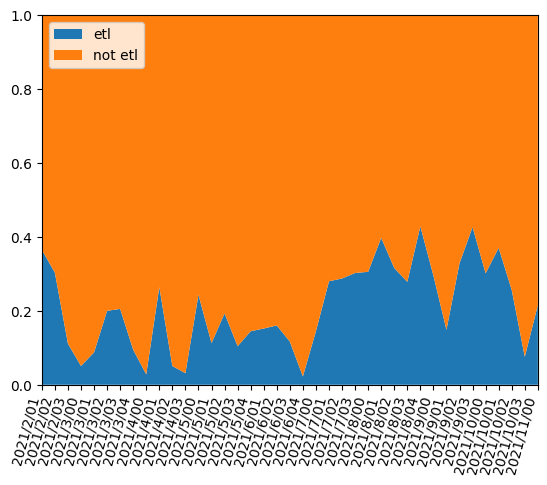
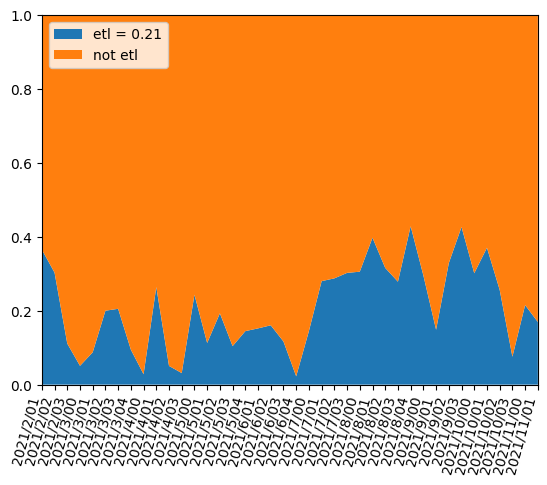
Billing

diff --git a/billing/plots.py b/billing/plots.py
@@ -3,6 +3,7 @@ import datetime
 import dateutil
 import matplotlib.pyplot as plt
 from matplotlib.font_manager import FontProperties
+from statistics import mean
 
 import sum_tables
 
@@ -137,12 +138,14 @@ def plot_table(figname, meetingize=False, zeynepize=False, indaraize=False,
     #x = range(len(y[0]))
 
     # pop off empty weeks at the end
+    #
     busy = []
     for i in range(len(x)):
         busy.append(0)
         for prj in y:
-            if prj[i] > 0:
-                busy[i] = 1
+            if (0 <= i < len(prj)):
+                if prj[i] > 0:
+                    busy[i] = 1
 
     weeks_to_pop = 0
     for i in range(len(busy) - 1, -1, -1):
@@ -274,24 +277,34 @@ def plot_table(figname, meetingize=False, zeynepize=False, indaraize=False,
     plt.margins(y=0)
 
     if indaraize:
-        plt.stackplot(x, indara, not_indara, labels=["indara", "not indara"],
+        x = x[0:len(indara)]
+        xmean = (mean(indara))
+        plt.stackplot(x, indara, not_indara, labels=["indara = %0.2f" % xmean, "not indara"],
                       colors=["#008080", "#abcdef"])
         plt.legend(loc='upper left')
         plt.savefig(figname, bbox_inches="tight")
     elif zeynepize:
-        plt.stackplot(x, zeynep, not_zeynep, labels=["zeynep", "not zeynep"])
+        x = x[0:len(zeynep)]
+        xmean = (mean(zeynep))
+        plt.stackplot(x, zeynep, not_zeynep, labels=["zeynep = %0.2f" % xmean, "not zeynep"])
         plt.legend(loc='upper left')
         plt.savefig(figname, bbox_inches="tight")
     elif muonize:
-        plt.stackplot(x, muon, not_muon, labels=["muon", "not muon"])
+        x = x[0:len(muon)]
+        xmean = (mean(muon))
+        plt.stackplot(x, muon, not_muon, labels=["muon = %0.2f" % xmean, "not muon"])
         plt.legend(loc='upper left')
         plt.savefig(figname, bbox_inches="tight")
     elif atlasize:
-        plt.stackplot(x, atlas, not_atlas, labels=["atlas", "not atlas"])
+        x = x[0:len(atlas)]
+        xmean = (mean(atlas))
+        plt.stackplot(x, atlas, not_atlas, labels=["atlas = %0.2f" % xmean, "not atlas"])
         plt.legend(loc='upper left')
         plt.savefig(figname, bbox_inches="tight")
     elif etlize:
-        plt.stackplot(x, etl, not_etl, labels=["etl", "not etl"])
+        x = x[0:len(etl)]
+        xmean = (mean(etl))
+        plt.stackplot(x, etl, not_etl, labels=["etl = %0.2f" % xmean, "not etl"])
         plt.legend(loc='upper left')
         plt.savefig(figname, bbox_inches="tight")
     else:
@@ -300,6 +313,8 @@ def plot_table(figname, meetingize=False, zeynepize=False, indaraize=False,
         print(y[0])
         print(len(x))
         print(len(y[0]))
+
+        x = x[0:len(y[0])]
 
         plt.stackplot(x, y, labels=t)
         plt.legend(bbox_to_anchor=(1.48, 0.9), loc='upper right', prop=fontP)
